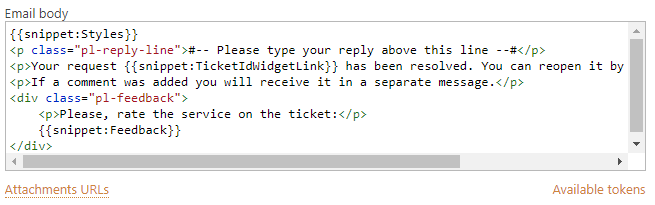
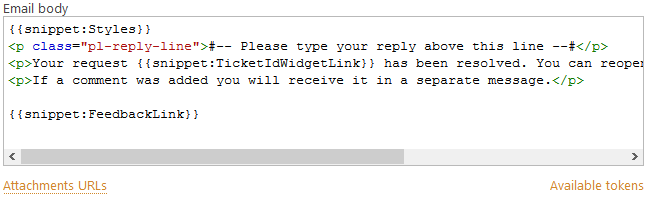
Changed name of the snippet in Feedback and the screenshot

Changed region(s): [[0.0, 0.0, 1.0, 0.8485], [0.0, 0.8788, 0.1849, 0.9697], [0.832, 0.9091, 1.0, 0.9697]]

diff --git a/Online/Configuration Guide/Feedback.rst b/Online/Configuration Guide/Feedback.rst
@@ -11,7 +11,7 @@ Providing a rate for customer service is quite user-friendly and quick. Addition
 How to add feedback snippet to your messages
 ~~~~~~~~~~~~~~~~~~~~~~~~~~~~~~~~~~~~~~~~~~~~
 
-Snippet ``{{snippet:Feedback}}`` is automatically added in email notification template of a built-in trigger called “Notification: Requester – Ticket resolved”. 
+Snippet ``{{snippet:FeedbackLink}}`` is automatically added in email notification template of a built-in trigger called “Notification: Requester – Ticket resolved”. 
 
 |FeedbackSnippet| 
 
